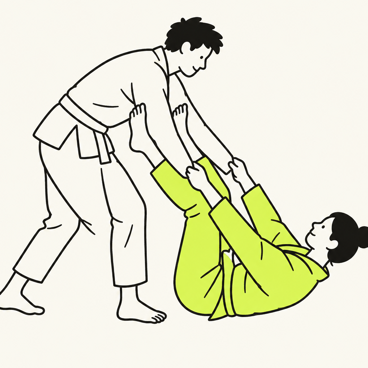
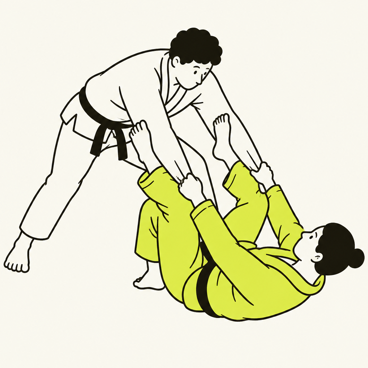
T-42: 포지션 그림 19장 전부 다시 — 실제 자세에 가깝게 (D-52)

Changed region(s): [[0.0, 0.0299, 1.0, 0.8967], [0.1495, 0.6277, 0.2092, 0.7174], [0.0598, 0.538, 0.0897, 0.5978]]

diff --git a/data/position-art/PROMPTS.md b/data/position-art/PROMPTS.md
@@ -9,31 +9,31 @@
 
 ## 공통 스타일 (모든 그림 앞에 붙임)
 ```
-Minimal hand-drawn doodle illustration of two Brazilian jiu-jitsu athletes wearing gi, in the style of flat "open peeps" people illustrations. One uniform-weight charcoal black outline (#16160F), flat fills only: one athlete's gi is plain white, the other athlete's gi is filled lime yellow (#DDF542). No shading, no gradients, no text, no letters, no logos, no belts with writing. Skin is not colored: faces, hands and feet are left unfilled in the same off-white as the paper, outline only, no skin tone. Simple faces. Dynamic and energetic, caught mid-movement with leaning bodies and active limbs, like a live roll rather than a static pose. Plain cream background (#FAF9F4) with no floor texture. Both full bodies visible, clear side view, centered with generous empty margin. Square image.
+Minimal hand-drawn doodle illustration of two Brazilian jiu-jitsu athletes wearing gi, in the style of flat "open peeps" people illustrations. One uniform-weight charcoal black outline (#16160F), flat fills only: one athlete's gi is plain white, the other athlete's gi is filled lime yellow (#DDF542). No shading, no gradients, no text, no letters, no logos. Skin is not colored: faces, hands and feet are left unfilled in the same off-white as the paper, outline only, no skin tone. Simple faces. Technically accurate grappling position: bodies close, tightly connected and low to the mat, with clear grips and leg hooks, slight natural motion. Viewed from a slightly elevated three-quarter angle. Plain cream background (#FAF9F4) with no floor texture. Both full bodies visible, centered with generous empty margin. Square image.
 ```
 
 ## 포지션별 (slug — 화면 이름 — 설명)
 | 파일 이름 | 포지션 | 이어 붙일 설명 |
 |---|---|---|
-| `standing.png` | 스탠딩 · 클린치 | `Both athletes standing face to face, knees slightly bent, each gripping the other's collar and sleeve.` |
-| `closed-guard.png` | 클로즈드 가드 | `The lime athlete lies on their back with both legs wrapped around the waist of the white athlete, ankles crossed behind the white athlete's back; the white athlete kneels upright between the legs.` |
-| `open-guard.png` | 오픈 가드 | `The lime athlete lies on their back with both feet pressing on the hips of the white athlete, who is kneeling upright; the lime athlete holds both of the white athlete's sleeves.` |
-| `butterfly-guard.png` | 버터플라이 가드 | `Seen from the side. The lime athlete sits upright on their buttocks on the mat, knees bent and open; both of the lime athlete's feet are hooked under the inside of the white athlete's thighs just above the knees (butterfly hooks). The white athlete is on both knees facing the lime athlete, torso upright and close. The lime athlete's one arm goes under the white athlete's armpit and the other hand grips the white athlete's sleeve; the lime athlete is rocking back and lifting the white athlete with the hooks.` |
-| `de-la-riva.png` | 데라히바 · 리버스 데라히바 | `The white athlete stands; the lime athlete lies on their back and wraps one leg around the outside of the white athlete's front leg with the foot hooked behind the knee, the other foot pushing the white athlete's hip.` |
-| `spider-lasso.png` | 스파이더 · 라쏘 · 소매 가드 | `The white athlete stands; the lime athlete lies on their back holding both of the white athlete's sleeves and presses both feet into the white athlete's biceps.` |
-| `lapel-guard.png` | 라펠 가드 | `Seen from the side. The lime athlete lies on their back on the mat with both legs up. The white athlete stands in front, leaning forward over the lime athlete's legs. The lime athlete has pulled out the long bottom end of their own lime-colored jacket lapel, wrapped it around the back of the white athlete's leg like a strap, and holds that lime lapel end in one hand; the lime athlete's feet push on the white athlete's hip and knee.` |
-| `x-guard.png` | X 가드 · 싱글 레그 X · 앵클락 | `The white athlete stands on one leg, off balance; the lime athlete lies underneath with both legs crossed in an X shape around the white athlete's other leg, hugging that leg.` |
-| `half-guard.png` | 하프가드 | `The lime athlete lies on their side on the mat and traps one of the white athlete's legs between both of their legs; the white athlete is on top, chest down, with the lime athlete's arm under their armpit.` |
-| `passing.png` | 패스 | `The lime athlete lies on their back with knees up; the white athlete stands over them and pushes both of the lime athlete's knees down to one side, stepping around the legs.` |
-| `side-control.png` | 사이드 컨트롤 | `Seen from the side. The lime athlete lies flat on their back on the mat. The white athlete lies on top across the lime athlete's chest at a right angle, both bodies low to the ground: the white athlete's chest presses down on the lime athlete's chest, the white athlete's knees are on the mat tight against the lime athlete's near hip, one of the white athlete's arms is under the lime athlete's head and the other blocks the lime athlete's near hip.` |
-| `north-south.png` | 남북 (노스사우스) | `Seen from the side. The lime athlete lies flat on their back on the mat. The white athlete lies on top chest-to-chest but facing the opposite direction: the white athlete's chest is on the lime athlete's chest, the white athlete's head is above the lime athlete's stomach, and the white athlete's legs extend past the lime athlete's head with knees on the mat beyond the lime athlete's head. Both bodies form one straight horizontal line, head-to-feet reversed.` |
-| `knee-on-belly.png` | 니 온 밸리 | `Seen from the side. The lime athlete lies flat on their back on the mat, knees bent. The white athlete is above in a high crouch: the white athlete's shin lies diagonally across the lime athlete's stomach with the knee pressing on the belly, the white athlete's other leg is posted far out to the side with the foot flat on the mat, the white athlete's torso is upright, one hand gripping the lime athlete's collar and the other pulling the lime athlete's sleeve.` |
-| `kesa-gatame.png` | 곁누르기 | `Seen from the side. The lime athlete lies flat on their back on the mat. The white athlete sits on the mat right beside the lime athlete's chest, hip pressed against the lime athlete's side, facing toward the lime athlete's head. The white athlete wraps one arm around the back of the lime athlete's neck and clamps the lime athlete's near arm tightly under their own armpit. The white athlete's legs are spread wide apart on the mat in a big split for balance, one leg bent forward and the other stretched back.` |
-| `mount.png` | 마운트 | `The lime athlete lies flat on their back; the white athlete sits on the lime athlete's stomach with knees on the mat on both sides.` |
-| `back-control.png` | 백 컨트롤 | `Both athletes sit on the mat; the white athlete sits behind the lime athlete with both legs hooked inside the lime athlete's thighs and arms wrapped diagonally across the lime athlete's chest.` |
-| `turtle.png` | 터틀 · 크루시픽스 | `The lime athlete is curled up on knees and elbows in a turtle position; the white athlete is on top from the side, chest on the lime athlete's back, gripping around the waist.` |
-| `front-headlock.png` | 프론트 헤드락 · 길로틴 | `The lime athlete is on their knees with head down; the white athlete is in front, sprawled with legs back, the lime athlete's head under the white athlete's armpit, arm wrapped around the neck.` |
-| `submission-control.png` | 서브미션 자세 | `Seen from the side, a classic armbar. The lime athlete lies on their back on the mat. The white athlete also lies on their back, perpendicular to the lime athlete, hips tight against the lime athlete's shoulder; one of the white athlete's legs crosses over the lime athlete's chest and the other leg crosses over the lime athlete's neck, both legs pressing down. The lime athlete's one arm is straightened and pulled up between the white athlete's thighs, and the white athlete hugs that straight arm to their own chest with both hands, thumb pointing up.` |
+| `standing.png` | 스탠딩 · 클린치 | `Both athletes stand facing each other in a slight crouch, close together, one foot forward; each holds the other's collar with one hand and the other's sleeve with the other hand.` |
+| `closed-guard.png` | 클로즈드 가드 | `The lime athlete lies on their back. The white athlete kneels between the lime athlete's legs, sitting back toward the heels, leaning slightly forward with both hands on the lime athlete's belly. The lime athlete's legs wrap around the white athlete's waist with the ankles locked together behind the white athlete's lower back; the lime athlete holds the white athlete's collar and sleeve.` |
+| `open-guard.png` | 오픈 가드 | `The lime athlete lies on their back with knees bent and both feet placed on the white athlete's hips. The white athlete kneels on one knee with the other foot planted, hands gripping the lime athlete's pants at the knees. The lime athlete grips both of the white athlete's sleeves.` |
+| `butterfly-guard.png` | 버터플라이 가드 | `The lime athlete sits up, chest-to-chest with the white athlete, head beside the white athlete's head; one lime arm underhooks under the white athlete's armpit and grips the back of the white athlete's belt; both lime feet are hooked inside the white athlete's thighs. The white athlete kneels upright on both knees, arm over the lime athlete's shoulder.` |
+| `de-la-riva.png` | 데라히바 · 리버스 데라히바 | `The white athlete stands upright with legs apart. The lime athlete lies on their back next to the white athlete's front leg: the lime athlete's leg wraps around the outside of the white athlete's front leg, shin behind the calf and foot hooked on the inside of the white athlete's thigh; the lime athlete's other foot pushes the white athlete's far hip; the lime athlete holds the white athlete's ankle and sleeve.` |
+| `spider-lasso.png` | 스파이더 · 라쏘 · 소매 가드 | `The white athlete leans forward over the lime athlete with arms stretched out. The lime athlete lies on their back gripping both of the white athlete's sleeves and pressing both feet into the white athlete's biceps, knees bent, pulling the white athlete's arms straight.` |
+| `lapel-guard.png` | 라펠 가드 | `The lime athlete lies on their back with both legs up. The white athlete stands in front, leaning forward over the lime athlete's legs. The lime athlete has pulled out the long bottom end of their own lime-colored jacket lapel, wrapped it around the back of the white athlete's leg like a strap, and holds that lime lapel end in one hand; the lime athlete's feet push on the white athlete's hip and knee.` |
+| `x-guard.png` | X 가드 · 싱글 레그 X · 앵클락 | `The white athlete stands on one leg, off balance and leaning. The lime athlete lies underneath between the white athlete's legs, both lime legs crossed in an X shape around one of the white athlete's legs (one foot behind the knee, the other on the hip), hugging that leg, lifting the white athlete.` |
+| `half-guard.png` | 하프가드 | `The lime athlete lies on their back. The white athlete is on top, kneeling and leaning chest-to-chest over the lime athlete. The lime athlete's two legs lock around one of the white athlete's legs, trapping it between the lime knees with the lime ankles crossed; the white athlete's other leg is free and posted out to the side.` |
+| `passing.png` | 패스 | `The lime athlete lies on their back with knees up. The white athlete stands bent over, both hands pushing the lime athlete's knees down to one side and stepping around the legs toward the lime athlete's side.` |
+| `side-control.png` | 사이드 컨트롤 | `The lime athlete lies flat on their back with knees bent. The white athlete lies chest-down across the lime athlete's chest at a right angle, chest-to-chest, the white athlete's head on the far side of the lime athlete's head, knees on the mat against the lime athlete's near hip, one arm wrapped under the lime athlete's head and the other under the lime athlete's near arm.` |
+| `north-south.png` | 남북 (노스사우스) | `The lime athlete lies flat on their back with knees bent. The white athlete lies on top chest-to-chest but reversed: the white athlete's head is over the lime athlete's stomach, and the white athlete's legs stretch back past the lime athlete's head with knees on the mat; the white athlete's arms wrap under the lime athlete's arms.` |
+| `knee-on-belly.png` | 니 온 밸리 | `The lime athlete lies flat on their back. The white athlete is on top with one knee on the lime athlete's stomach, shin across the belly, the other leg extended far out to the side with the foot planted, torso upright and leaning slightly forward, one hand gripping the lime athlete's collar and the other the lime athlete's far sleeve.` |
+| `kesa-gatame.png` | 곁누르기 | `The lime athlete lies flat on their back. The white athlete sits on the mat at the lime athlete's side, hip against the lime athlete's ribs, torso leaning over the lime athlete's chest and facing the lime athlete's head; one white arm wraps around the lime athlete's head and the other clamps the lime athlete's near arm; the white athlete's legs are spread wide apart, one in front and one behind.` |
+| `mount.png` | 마운트 | `The lime athlete lies flat on their back. The white athlete straddles the lime athlete's torso, knees on the mat on both sides of the lime athlete's chest, sitting low and leaning forward with hands posted on the mat near the lime athlete's head.` |
+| `back-control.png` | 백 컨트롤 | `Both athletes sit reclined on the mat. The white athlete is behind with chest against the lime athlete's back, both white heels hooked inside the lime athlete's thighs, one white arm over the lime athlete's shoulder and the other under the armpit, hands clasped across the lime athlete's chest.` |
+| `turtle.png` | 터틀 · 크루시픽스 | `The lime athlete is curled on knees and elbows in a tight ball with head tucked. The white athlete is at the lime athlete's side, chest draped over the lime athlete's back, one knee down and one leg posted, one arm wrapped around the lime athlete's waist.` |
+| `front-headlock.png` | 프론트 헤드락 · 길로틴 | `The lime athlete is on knees and hands with head down. The white athlete faces them from the front, chest on top of the lime athlete's head and upper back, legs sprawled back, one arm wrapped under the lime athlete's neck and the other hand gripping the lime athlete's arm.` |
+| `submission-control.png` | 서브미션 자세 | `Classic armbar. The lime athlete lies on their back. The white athlete lies on their back perpendicular to the lime athlete, buttocks close to the lime athlete's shoulder; one white leg lies across the lime athlete's chest and the other across the lime athlete's face, knees squeezed together; the white athlete holds the lime athlete's straightened arm between the thighs against the white athlete's chest.` |
 
 ## 참고
 - 2026-10-28 시험 3개(GPT Image 2.5 · 보통 품질) 뒤 본인 의견으로 고침: 피부색 없음(선만), 조금 더 동적으로.
@@ -43,3 +43,5 @@ Minimal hand-drawn doodle illustration of two Brazilian jiu-jitsu athletes weari
 - 2026-10-28 **만든 결과**: Higgsfield MCP 연결로 GPT Image 2.5(보통 품질 · 1k · 1:1), 포지션마다 후보 2장 → Claude 가 자세가 더 맞는 쪽을 골라 가운데 820px 를 잘라 368px 로 줄임(`src/assets/positions/`). 시험 6장 + 본 38장 = 22 크레딧. 노스사우스는 두 후보 모두 자세가 정확하지 않아 덜 맞는 대로 넣음 — 바꿀 때 이 설명으로 다시 만든다.
 - 2026-10-28 본인 확인으로 4 · 7 · 11 · 12 · 13 · 14 · 19번(버터플라이 · 라펠 · 사이드 · 노스사우스 · 니 온 밸리 · 곁누르기 · 암바) 자세가 이상 → 설명을 관절 위치까지 자세히 고치고 높은 품질(high)로 다시 만듦.
 - 2026-10-28 다시 만든 결과: 7개 × (flare · sunburst) 높은 품질 14장 = 21 크레딧. 고른 것 — 버터플라이 · 라펠 · 사이드 · 니 온 밸리 · 곁누르기 · 암바는 sunburst, 노스사우스는 flare. 지금까지 모두 43 크레딧.
+- 2026-10-28 본인 요청으로 전체 다시: studentofbjj.com 의 기본 포지션 · 서브미션 그림을 **눈으로 보고 자세만 말로 옮김**(그 그림을 올리거나 베끼지 않음). 공통 스타일을 "몸이 가깝게 붙고 낮게, 비스듬히 위에서 본 시점"으로 바꿈, 보통 품질.
+- 2026-10-28 전체 다시 만든 결과: 19개 × 2장(보통 품질) = 19 크레딧, 포지션마다 자세가 더 맞는 쪽을 골라 19장 모두 바꿈. 지금까지 모두 62 크레딧.

diff --git a/TASKS.md b/TASKS.md
@@ -81,5 +81,5 @@
 - [ ] M2-02 기술마다 유튜브 영상 골라 넣기 (D-37 다음) — 완료 기준: YouTube Data API 키(서버에만)로 기술마다 후보 영상 몇 개를 찾고(영어 이름 + bjj, 조회수 · 길이 · 채널 기준), 운영자가 확인해 기술당 1개를 고르면 `techniques` 에 영상 id 저장(새 migration), 기술 상세 · 복습 뒷면에서 유튜브 공식 플레이어로 바로 재생. 영상이 없어지면 검색 버튼으로 돌아감. 정할 것: 쓰는 순서(기록에 나온 기술부터), 채널 기준(공식 강사 채널 우선 등), 하루 API 한도
 - [ ] M2-03 · T-40 사용자 기술 내용 보완 제안 (D-50) — 완료 기준: ① 기술 상세 "내용 보완 제안"(세팅 과정 고치기 3~5줄 + 다른 이름 더하기 + 이유 선택) ② 대기 중이면 "확인 대기 중", 한 사람 대기 10개까지(DB 규칙) ③ 운영 화면에서 지금 · 제안 줄 비교, 고쳐서 승인(기술에 바로 반영) · 버림, 보낸 사람은 안 보임 ④ 승인 → 보낸 사람 홈 알림 ⑤ 다른 사용자 제안은 못 봄(RLS 점검) ⑥ 휴대폰에서 제안 → 승인 → 반영 확인
 - [ ] M2-04 · T-41 기록 공유 이미지 카드 (D-51) — 완료 기준: ① 기록 보기 위쪽 "공유" → 미리보기(1080×1920, 날짜 · 기술 이름 · 포지션 · 내 글) ② "내 글 넣기" 끄기 ③ "공유하기" → 휴대폰 공유 창(인스타 스토리 · 카톡), 공유 창이 없으면 "이미지 저장" ④ 남의 기록 · 로그인 안 한 사람은 이미지 안 나옴 ⑤ 저장 · 공개 주소 없음 ⑥ 휴대폰에서 인스타 스토리 또는 카톡으로 보내 확인 (2026-10-28 **구현 · 배포 완료(5506b7b) · 휴대폰 확인 대기** — `/app/log/[id]/card`(next/og, Pretendard), 기록 보기 제목 줄 "공유" → 미리보기 팝업 · 내 글 넣기 스위치 · 공유하기(휴대폰 공유 창 되는 기기만) · 이미지 저장. 로컬 가짜 기록으로 기술 3 · 5개 · 글 끄기 확인, 인터넷 주소에서 로그인 안 하면 로그인 화면으로 가는 것 확인)
-- [ ] T-42 포지션 그림 19장 (D-52) — 완료 기준: Higgsfield 로 포지션마다 단순한 선 그림 후보를 만들고 한웅 님이 고름 → `src/assets/positions/` → 공유 카드 기술 옆에 표시. 자세가 틀린 그림은 쓰지 않음 (2026-10-28 **19장 넣음 · 휴대폰 확인 대기** — Higgsfield 연결 후 GPT Image 2.5 로 시험 3개 → 본인 의견(피부색 빼기 · 더 동적으로) 반영 → 포지션마다 후보 2장 중 하나 고름, 22 크레딧. 설명문 `data/position-art/PROMPTS.md`. → 본인 확인으로 7개(버터플라이 · 라펠 · 사이드 · 노스사우스 · 니 온 밸리 · 곁누르기 · 암바) 자세를 자세히 고쳐 높은 품질로 다시 만들어 바꿈, +21 크레딧(모두 43))
+- [ ] T-42 포지션 그림 19장 (D-52) — 완료 기준: Higgsfield 로 포지션마다 단순한 선 그림 후보를 만들고 한웅 님이 고름 → `src/assets/positions/` → 공유 카드 기술 옆에 표시. 자세가 틀린 그림은 쓰지 않음 (2026-10-28 **19장 넣음 · 휴대폰 확인 대기** — Higgsfield 연결 후 GPT Image 2.5 로 시험 3개 → 본인 의견(피부색 빼기 · 더 동적으로) 반영 → 포지션마다 후보 2장 중 하나 고름, 22 크레딧. 설명문 `data/position-art/PROMPTS.md`. → 본인 확인으로 7개(버터플라이 · 라펠 · 사이드 · 노스사우스 · 니 온 밸리 · 곁누르기 · 암바) 자세를 자세히 고쳐 높은 품질로 다시 만들어 바꿈, +21 크레딧(모두 43) → 본인 요청으로 studentofbjj.com 기본 포지션 · 서브미션 그림의 자세를 말로 옮겨 설명을 다시 쓰고 19장 전부 보통 품질로 다시, +19 크레딧(모두 62))
 

diff --git a/DECISIONS.md b/DECISIONS.md
@@ -85,5 +85,5 @@
 - 이미지는 그때그때 서버에서 그 사람 기록으로만 만들고(RLS, 본인 기록만) **어디에도 저장하지 않는다**. 공개 주소가 없으니 사진을 받은 사람 말고는 볼 수 없다. AI · 외부 서비스로 보내는 것 없음(비용 0).
 - 공유 전에 미리보기를 먼저 보여 주고, **"내 글 넣기"를 끌 수 있다** — 글에 동료 이름 같은 게 있으면 기술 이름만 공유. 긴 글은 카드에서 잘리고 "…".
 - 기술은 카드에 4개까지, 더 있으면 "외 N개".
-## D-52 (2026-10-28) 공유 카드의 그림 → **기술마다가 아니라 포지션(19개)마다 한 장, 같은 포지션 기술은 같은 그림.** 본인 선택("포지션 그림 19장까지 오늘") · 그림 도구는 본인 선택("Higgsfield 로 단순한 선 그림"). 스타일: 디자인 레퍼런스(Calm 앱의 Pablo Stanley 손그림 사람)처럼 굵기 일정한 먹색 선 + 라임 한 색 채움, 크림 바탕, 얼굴 표정 · 글자 없음. 이유: 573장은 비용 · 확인 부담이 크고, 두 사람이 엉킨 자세는 AI 가 팔다리를 틀리게 그리기 쉬워 한 장씩 사람이 골라야 한다. 그림은 `src/assets/positions/{포지션 slug}.png`, 없으면 그 자리에 포지션 이름만. DESIGN.md "그림 없음" 규칙의 예외(공유 카드 안에서만, 앱 화면에는 안 씀). 시험 뒤 본인 의견으로 **피부색 없이 선만 · 조금 더 동적인 자세**로 바꿈. 모델 GPT Image 2.5(Higgsfield), 22 크레딧 / 본인 요청 / 영향: M2-04 → T-41 · T-42, DESIGN.md 6
+## D-52 (2026-10-28) 공유 카드의 그림 → **기술마다가 아니라 포지션(19개)마다 한 장, 같은 포지션 기술은 같은 그림.** 본인 선택("포지션 그림 19장까지 오늘") · 그림 도구는 본인 선택("Higgsfield 로 단순한 선 그림"). 스타일: 디자인 레퍼런스(Calm 앱의 Pablo Stanley 손그림 사람)처럼 굵기 일정한 먹색 선 + 라임 한 색 채움, 크림 바탕, 얼굴 표정 · 글자 없음. 이유: 573장은 비용 · 확인 부담이 크고, 두 사람이 엉킨 자세는 AI 가 팔다리를 틀리게 그리기 쉬워 한 장씩 사람이 골라야 한다. 그림은 `src/assets/positions/{포지션 slug}.png`, 없으면 그 자리에 포지션 이름만. DESIGN.md "그림 없음" 규칙의 예외(공유 카드 안에서만, 앱 화면에는 안 씀). 시험 뒤 본인 의견으로 **피부색 없이 선만 · 조금 더 동적인 자세**로 바꿈. 모델 GPT Image 2.5(Higgsfield). 이후 본인 요청으로 studentofbjj.com 의 포지션 그림을 참고해 **몸이 가깝게 붙고 낮은, 비스듬히 위에서 본 자세**로 전부 다시 만듦 — 그 그림은 눈으로 보고 자세만 말로 옮겼고 이미지 AI 에 올리거나 베끼지 않음(남의 저작물). 모두 62 크레딧 / 본인 요청 / 영향: M2-04 → T-41 · T-42, DESIGN.md 6
 
